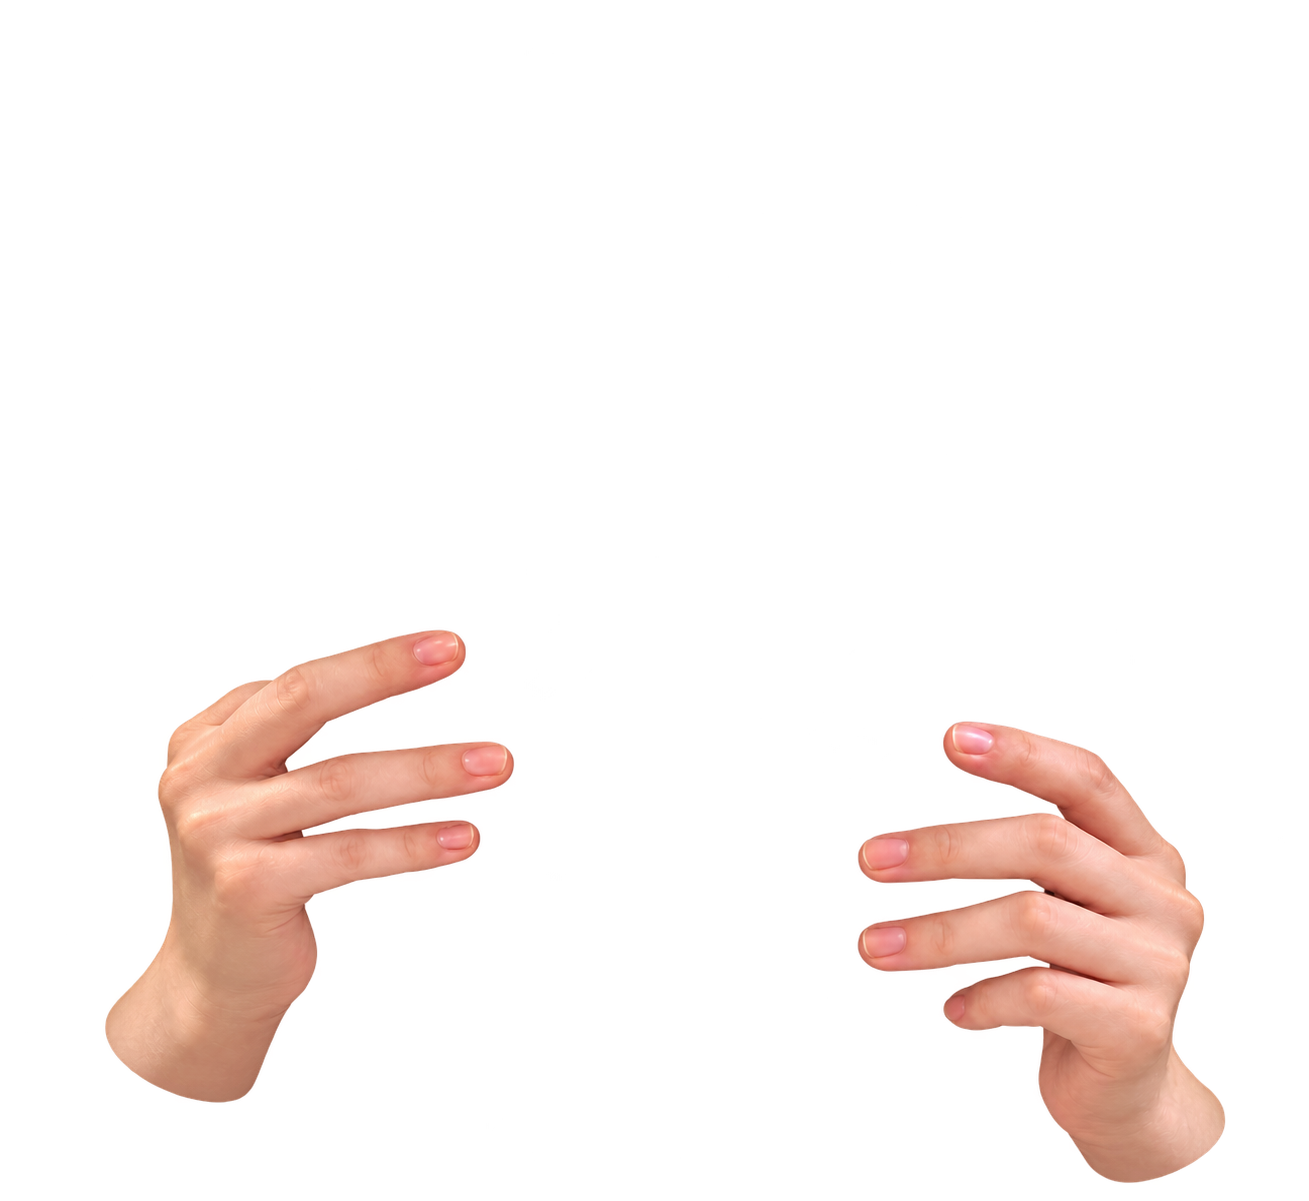
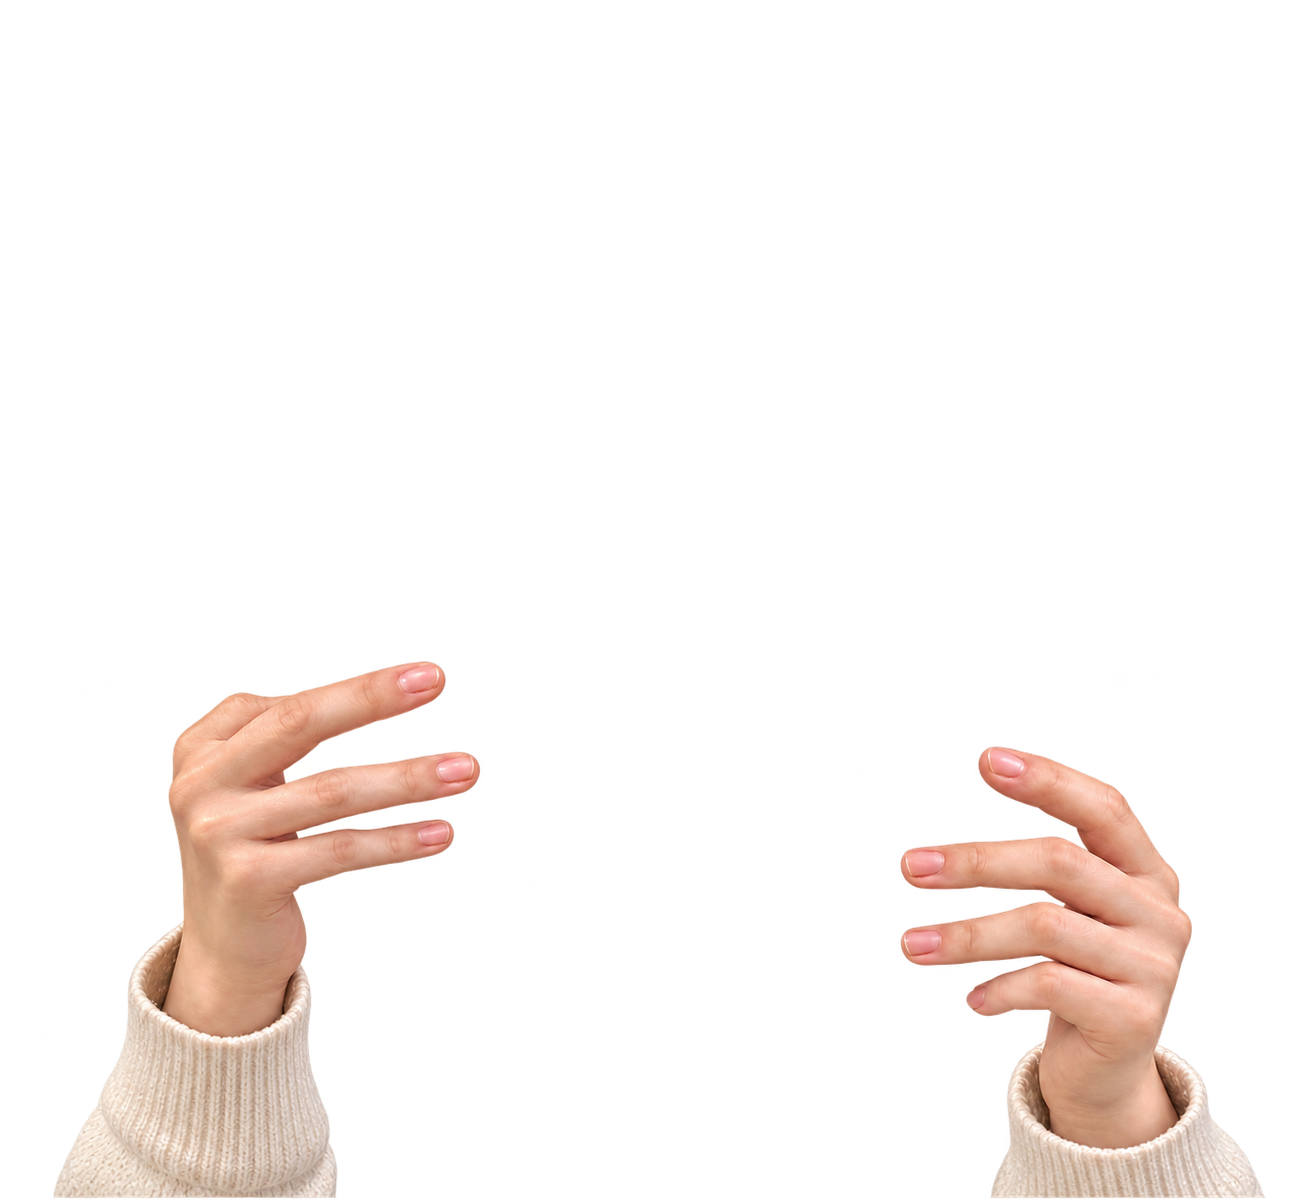
style: update hand asset and adjust welcome page parallax

Changed region(s): [[0.0306, 0.5237, 0.3972, 1.0], [0.6417, 0.5853, 0.9778, 1.0]]

diff --git a/js/scenes.js b/js/scenes.js
@@ -49,12 +49,12 @@
         elCorrosion.classList.remove('glitching');
       }
 
-      // Subtle 3-layer parallax on 人 / 书 / 手
+      // Parallax: hands stay stationary, book moves with larger amplitude
       const nx = Math.max(-1, Math.min(1, dx / (window.innerWidth * 0.5)));
       const ny = Math.max(-1, Math.min(1, dy / (window.innerHeight * 0.5)));
       if (elPerson) elPerson.style.transform = `translate3d(${(nx * 4).toFixed(1)}px, ${(ny * 3).toFixed(1)}px, 0)`;
-      if (elBook)   elBook.style.transform   = `translate3d(${(nx * 9).toFixed(1)}px, ${(ny * 6).toFixed(1)}px, 0)`;
-      if (elHands)  elHands.style.transform  = `translate3d(${(nx * 14).toFixed(1)}px, ${(ny * 9).toFixed(1)}px, 0)`;
+      if (elBook)   elBook.style.transform   = `translate3d(${(nx * 18).toFixed(1)}px, ${(ny * 13).toFixed(1)}px, 0) rotate(${(nx * 2).toFixed(2)}deg)`;
+      if (elHands)  elHands.style.transform  = 'translate3d(0, 0, 0)';
     }
 
     function onWheel(e) {
